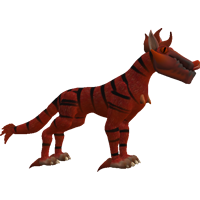
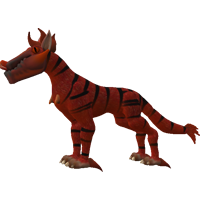
mit Hase!

diff --git a/src/js/PetFight.js b/src/js/PetFight.js
@@ -35,9 +35,9 @@ export class PetFight extends GameTemplate {
 
             // Block für Daten (Stats, Name, ...)
             // Treffquote, Critquote, Dodge, ...
-            this.player = {name: "Bla", health: 35, maxhealth: 35, energy:30, maxenergy:30, atk: 5, def: 3, spatk: 5, spdef: 4};
+            this.player = {name: "Bla", sprite: "sealing.png", health: 35, maxhealth: 35, energy:30, maxenergy:30, atk: 5, def: 3, spatk: 5, spdef: 4};
             this.playermoves = ["Fireball", "Fiery Breath", "Freeze", "Bite"];
-            let enemy = {name: "Keili", health: 117, maxhealth: 125, energy:10, maxenergy:22, atk: 3, def: 3, spatk: 2, spdef: 4};
+            let enemy = {name: "Keili", sprite: "flameling.png", health: 117, maxhealth: 125, energy:10, maxenergy:22, atk: 3, def: 3, spatk: 2, spdef: 4};
             let enemymoves = ["Clawstrike", "Fireball", "Fiery Breath", "Fiery Breath"];
             // Ende Datenblock
 
@@ -67,7 +67,7 @@ export class PetFight extends GameTemplate {
                 console.log("mapupdate:" + mapUpdate);
                 if (mapUpdate && mapUpdate[0] == "startBattle") {
                     this.mode = "battle";
-                    this.battlestart(mapUpdate[1]);              
+                    this.battlestart(mapUpdate[1], mapUpdate[2]);              
                 }
 
             }
@@ -114,11 +114,11 @@ export class PetFight extends GameTemplate {
         }
     }
 
-    battlestart(enemyName) {
+    battlestart(enemyName, enemySprite) {
 
         // Block für Daten (Stats, Name, ...)
-        this.player = {name: "Bla", health: 40, maxhealth:40, energy:30, maxenergy:35, atk: 5, def: 3, spatk: 5, spdef: 4};
-        let enemy = {name: enemyName, health: 105, maxhealth:105, energy:20, maxenergy:20, atk: 3, def: 3, spatk: 2, spdef: 4};
+        this.player = {name: "Bla", sprite: "sealing.png", health: 40, maxhealth:40, energy:30, maxenergy:35, atk: 5, def: 3, spatk: 5, spdef: 4};
+        let enemy = {name: enemyName, sprite: enemySprite, health: 105, maxhealth:105, energy:20, maxenergy:20, atk: 3, def: 3, spatk: 2, spdef: 4};
         this.playermoves = ["Fireball", "Freeze", "Heatshield", "Punch"];
         let enemymoves = ["Fireball", "Fiery Breath", "Dodge", "Fiery Breath"];
         // Ende Datenblock

diff --git a/src/js/Battle.js b/src/js/Battle.js
@@ -39,12 +39,12 @@ export class Battle {
         // es existiert ein BattleCreatureObject - da soll alles rein!
         this.playermoves = playermoves;
         this.player = player;
-        this.pCreature = new BattleCreature(0,300, 150, 150, "player", "sealing.png");
+        this.pCreature = new BattleCreature(0,300, 150, 150, "player", player.sprite);
         
         // analog dem Playerkommentar:
         this.enemy = enemy;
         this.enemymoves = enemymoves;
-        this.eCreature = new BattleCreature(250,0, 150, 150, "enemy", "flameling.png");
+        this.eCreature = new BattleCreature(250,0, 150, 150, "enemy", enemy.sprite);
 
         this.playermoves.active = 0;
         this.drawer = new BattleDrawer();

diff --git a/src/js/Map.js b/src/js/Map.js
@@ -125,6 +125,12 @@ export class Map {
             let mapUpdate = [];
             mapUpdate[0] = "startBattle";
             mapUpdate[1] = this.entities[newPlayeri][newPlayerj].content.name;
+            if (mapUpdate[1] == "Böser Hase") {
+                mapUpdate[2] = "bad_rabbit.png";    //durchpipen!
+            }
+            else {
+                mapUpdate[2] = "flameling.png";
+            }
             return mapUpdate;
         }
         

diff --git a/src/js/BattleCreature.js b/src/js/BattleCreature.js
@@ -1,3 +1,9 @@
+
+/*
+    Sprite Spiegeln!
+
+*/
+
 export class BattleCreature {
 
     constructor(x, y, width, height, type, sprite="none") {
